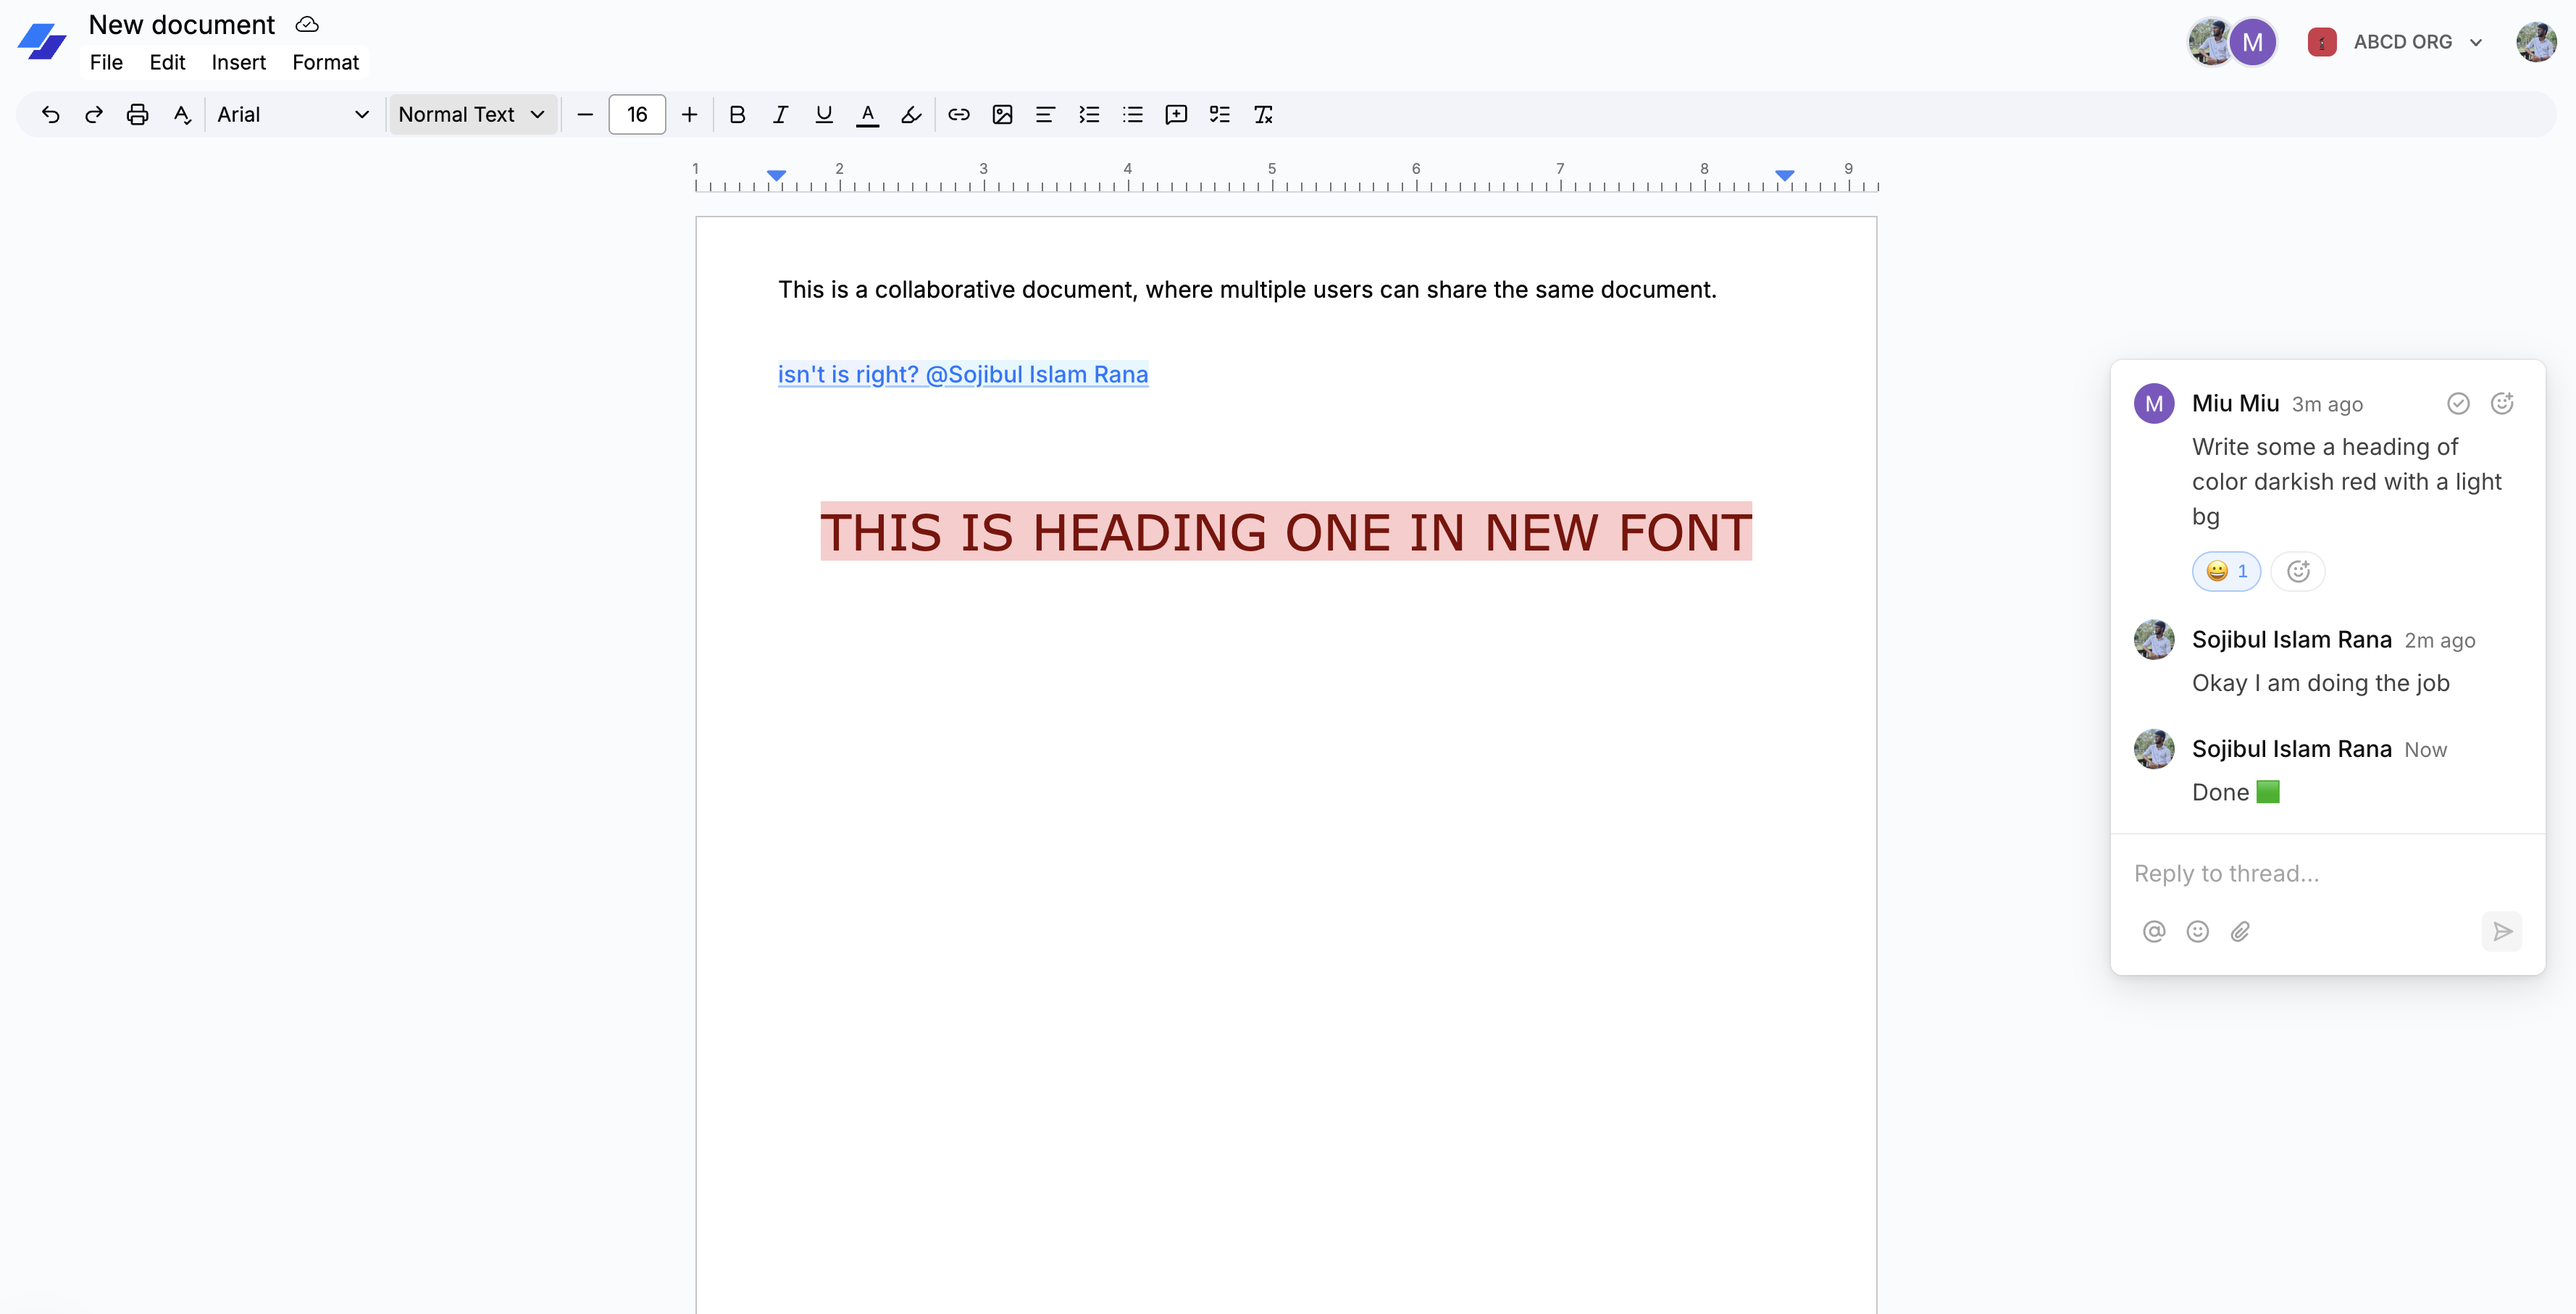
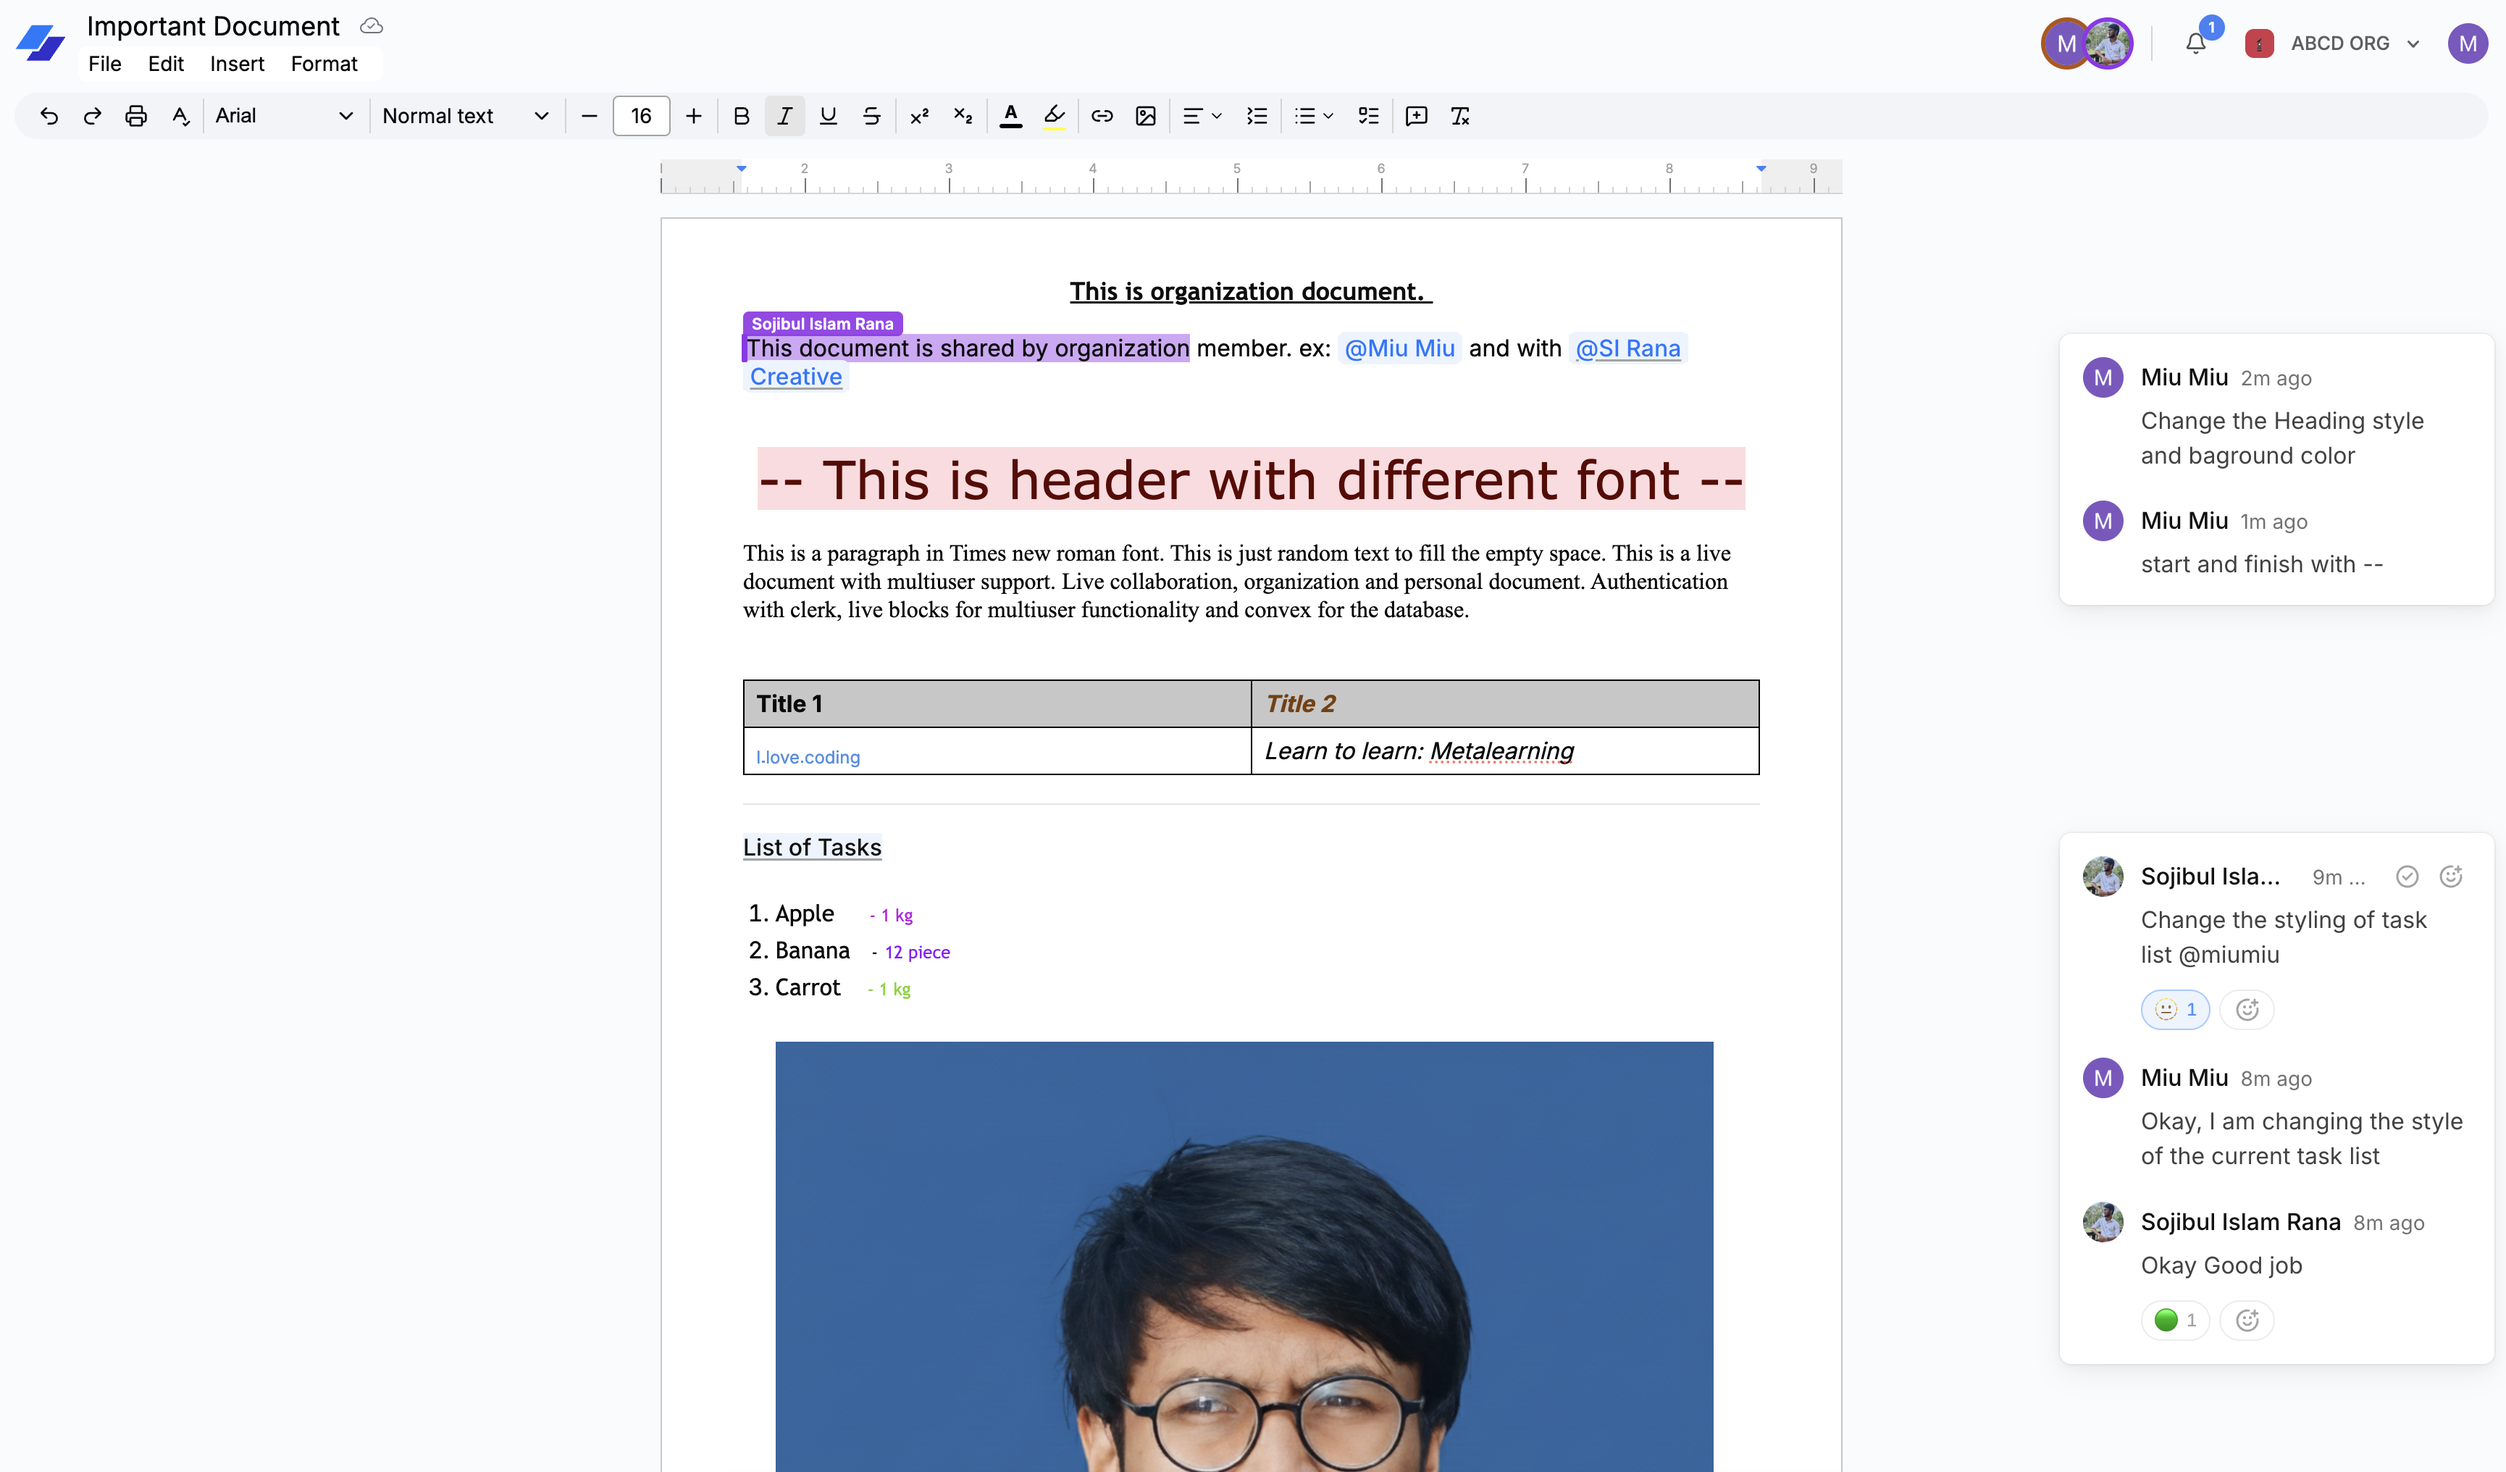
docs: update cover and link

diff --git a/README.md b/README.md
@@ -5,9 +5,11 @@ A light weight multiuser realtime text editor where multiple users can write, ed
 > !!!! ON DEVELOPMENT !!!!
 
 ### Preview
-
+`Live link:` https://live-docs-mu-nine.vercel.app/
 <img src= "public/cover/cover.png">
 <img src= "public/cover/cover2.png">
+
+
 
 ### Local development
 
